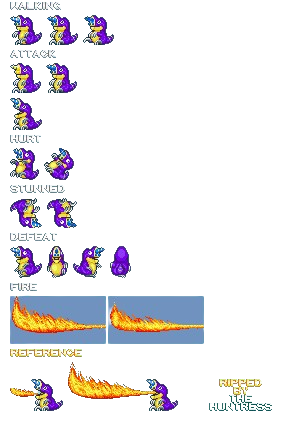
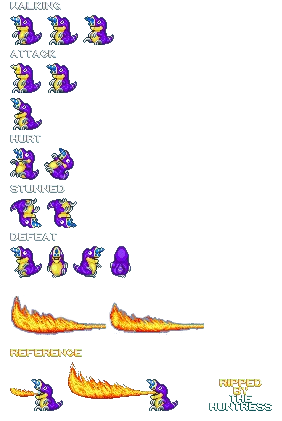
EnemyDino0 Fire 추가

Changed region(s): [[0.0284, 0.6485, 0.7376, 0.8337]]

diff --git a/PenguinBrothers/Source/Component/EnemyDino0Ctrl.cpp b/PenguinBrothers/Source/Component/EnemyDino0Ctrl.cpp
@@ -9,6 +9,8 @@
 #include <Core/Component/FSM/FiniteStateMachine.h>
 #include <Core/Component/FSM/FSMState.h>
 
+#include <Source/GameObject/EnemyDino0Attack.h>
+
 
 EnemyDino0Ctrl::EnemyDino0Ctrl(GameObjectBase& gameObject) : ComponentBase(gameObject)
 {
@@ -16,6 +18,16 @@ EnemyDino0Ctrl::EnemyDino0Ctrl(GameObjectBase& gameObject) : ComponentBase(gameO
 
 EnemyDino0Ctrl::~EnemyDino0Ctrl()
 {
+}
+
+void EnemyDino0Ctrl::SpawnFire()
+{
+	GameObjectBase* fire = WorldManager::AddGameObject<EnemyDino0Attack>(L"DinoAttack");
+	fire->transform.FlipX(gameObject.transform.flipX);
+	fire->transform.position = gameObject.transform.position;
+	
+	float dir = gameObject.transform.flipX ? 1.f : -1.f;
+	fire->transform.position += Vector2(dir * 110.f, 33.f);
 }
 
 void EnemyDino0Ctrl::Start()
@@ -30,10 +42,10 @@ void EnemyDino0Ctrl::Start()
 	stateDebugText->TextColor = D2D1::ColorF(D2D1::ColorF::Violet);
 
 	fsm = &gameObject.GetComponent<FiniteStateMachine>();
-#endif // _DEBUG
-
-
+#endif 
 	gameObject.transform.position += Vector2(0.f, -9.f);
+
+	
 
 }
 
@@ -47,6 +59,8 @@ void EnemyDino0Ctrl::Update()
 		stateDebugText->Text += state->GetName();
 	}								   
 #endif 
+
+
 }
 
 void EnemyDino0Ctrl::LateUpdate()

diff --git a/PenguinBrothers/Source/Component/EnemyDino0AttackCtrl.cpp b/PenguinBrothers/Source/Component/EnemyDino0AttackCtrl.cpp
@@ -1,0 +1,27 @@
+#include "EnemyDino0AttackCtrl.h"
+#include <Framework/WorldManager.h>
+
+#include "Core/GameObject/Base/GameObjectBase.h"
+#include <Core/Component/Renderer/SpriteAnimationRenderer.h>
+
+EnemyDino0AttackCtrl::EnemyDino0AttackCtrl(GameObjectBase& gameObject) : ComponentBase(gameObject)
+{
+
+}
+
+EnemyDino0AttackCtrl::~EnemyDino0AttackCtrl()
+{
+}
+
+void EnemyDino0AttackCtrl::Start()
+{
+	animation = &gameObject.GetComponent<SpriteAnimationRenderer>();
+}
+
+void EnemyDino0AttackCtrl::Update()
+{
+	if (animation->CurrentClipEnd)
+	{
+		WorldManager::DelGameObject(gameObject);
+	}
+}

diff --git a/PenguinBrothers/Source/Scenes/StageBase.cpp b/PenguinBrothers/Source/Scenes/StageBase.cpp
@@ -10,9 +10,9 @@ StageBase::StageBase()
 	bgPath = L"Resource/Stage/1.png";
 	playerSpawnPos = Vector2(-500.f, -195.f);
 
-	//GameObjectBase* backGround = WorldManager::AddGameObject(L"Background");
-	//backGround->AddComponent<SpriteRenderer>().LoadImage(bgPath.c_str());
-	//backGround->OderLayer = -1;
+	GameObjectBase* backGround = WorldManager::AddGameObject(L"Background");
+	backGround->AddComponent<SpriteRenderer>().LoadImage(bgPath.c_str());
+	backGround->OderLayer = -1;
 
 	GameObjectBase* player = WorldManager::AddGameObject<Player>(L"Player");
 	player->transform.position = playerSpawnPos;

diff --git a/PenguinBrothers/Source/GameObject/EnemyDino0Attack.cpp b/PenguinBrothers/Source/GameObject/EnemyDino0Attack.cpp
@@ -1,0 +1,20 @@
+#include "EnemyDino0Attack.h"
+
+#include <Core/Component/Renderer/SpriteAnimationRenderer.h>
+
+#include "Source/Component/EnemyDino0AttackCtrl.h"
+
+EnemyDino0Attack::EnemyDino0Attack()
+{
+	transform.scale = Vector2(2.0f, 2.0f);
+
+	AddComponent<EnemyDino0AttackCtrl>();
+
+	SpriteAnimationRenderer& animationRenderer = AddComponent<SpriteAnimationRenderer>();
+	animationRenderer.LoadAnimation(L"Resource/Enemy/Dino0/Fire.txt", L"Resource/Enemy/Dino0/EnemyDino0.png", L"Fire");
+	animationRenderer.SetAnimation(L"Fire");
+}
+
+EnemyDino0Attack::~EnemyDino0Attack()
+{
+}

diff --git a/PenguinBrothers/Source/Component/EnemyDino0AttackCtrl.h b/PenguinBrothers/Source/Component/EnemyDino0AttackCtrl.h
@@ -1,0 +1,20 @@
+#pragma once
+#include <Core/Component/Base/ComponentBase.h>
+
+class EnemyDino0AttackCtrl : public ComponentBase
+{
+	class SpriteAnimationRenderer* animation;
+public:
+	EnemyDino0AttackCtrl(GameObjectBase& gameObject);
+	virtual ~EnemyDino0AttackCtrl() override;
+
+protected:
+	virtual void Start() override;
+	virtual void Update() override;
+	//virtual void LateUpdate() override;
+	//virtual void Render() override;
+
+private:
+
+};
+

diff --git a/PenguinBrothers/Source/GameObject/EnemyDino0.cpp b/PenguinBrothers/Source/GameObject/EnemyDino0.cpp
@@ -114,10 +114,16 @@ void EnemyTracking::Update()
 }
 
 
+EnemyAttack::EnemyAttack(FiniteStateMachine& _owner, const wchar_t* _name) : EnemyState(_owner, _name)
+{
+	dinoCtrl = &owner.gameObject.GetComponent<EnemyDino0Ctrl>();
+}
+
 void EnemyAttack::Enter()
 {
 	movement->SetSpeed(0.f);
 	animationRenderer->SetAnimation(L"Attack");
+	dinoCtrl->SpawnFire();
 }
 
 void EnemyAttack::Update()

diff --git a/PenguinBrothers/Source/GameObject/EnemyDino0.h b/PenguinBrothers/Source/GameObject/EnemyDino0.h
@@ -57,8 +57,9 @@ protected:
 
 class EnemyAttack : public EnemyState
 {
+	class EnemyDino0Ctrl* dinoCtrl = nullptr;
 public:
-	EnemyAttack(FiniteStateMachine& _owner, const wchar_t* _name) : EnemyState(_owner, _name) {}
+	EnemyAttack(FiniteStateMachine& _owner, const wchar_t* _name);
 protected:
 	virtual void Enter() override;
 	virtual void Update() override;

diff --git a/PenguinBrothers/Source/GameObject/EnemyDino0Attack.h b/PenguinBrothers/Source/GameObject/EnemyDino0Attack.h
@@ -1,0 +1,10 @@
+#pragma once
+#include <Core/GameObject/Base/GameObjectBase.h>
+
+class EnemyDino0Attack : public GameObjectBase
+{
+public:
+	EnemyDino0Attack();
+	virtual ~EnemyDino0Attack() override;
+
+};

diff --git a/PenguinBrothers/Source/Component/EnemyDino0Ctrl.h b/PenguinBrothers/Source/Component/EnemyDino0Ctrl.h
@@ -9,6 +9,7 @@ public:
 	EnemyDino0Ctrl(GameObjectBase& gameObject);
 	virtual ~EnemyDino0Ctrl();
 
+	void SpawnFire();
 protected:
 	virtual void Start();
 	virtual void Update();
